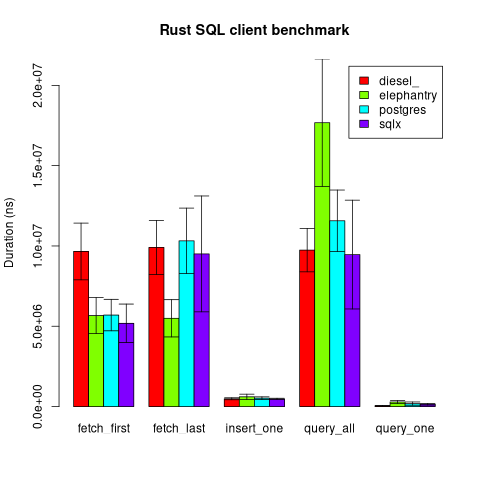
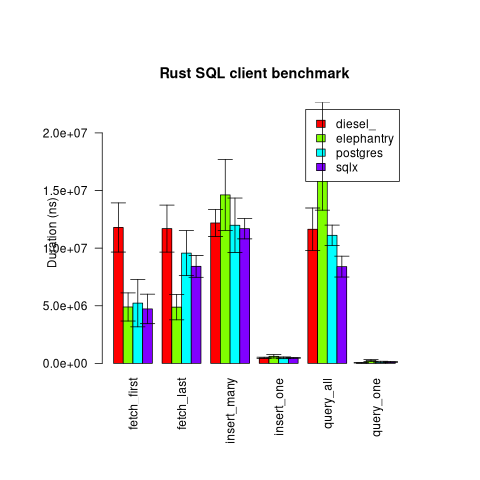
Adds insert_many benchmark

Changed region(s): [[0.0625, 0.125, 0.9375, 0.9375], [0.3125, 0.0312, 0.7188, 0.0938], [0.0, 0.4062, 0.0312, 0.5625]]

diff --git a/src/lib.rs b/src/lib.rs
@@ -113,6 +113,15 @@ macro_rules! bench {
         }
 
         #[bench]
+        fn insert_many(b: &mut test::Bencher) -> Result<(), <$ty as $crate::Client>::Error> {
+            let mut client: $ty = Client::setup(0)?;
+
+            b.iter(|| client.insert(25).unwrap());
+
+            client.tear_down()
+        }
+
+        #[bench]
         fn fetch_first(b: &mut test::Bencher) -> Result<(), <$ty as $crate::Client>::Error> {
             let mut client: $ty = Client::setup(10_000)?;
 

diff --git a/README.md b/README.md
@@ -22,5 +22,6 @@ DATABASE_URL="postgres://$USER@localhost/bench" ./graph results/graph.png
 - fetch first: fetch the first result of a 10 000 rows set;
 - fetch last: fetch the last result of a 10 000 rows set;
 - insert one: insert a new row;
+- insert many: insert 25 rows;
 - query all: fetch all results of a 10 000 rows table;
 - query one: fetch all results of a 1 row table.
